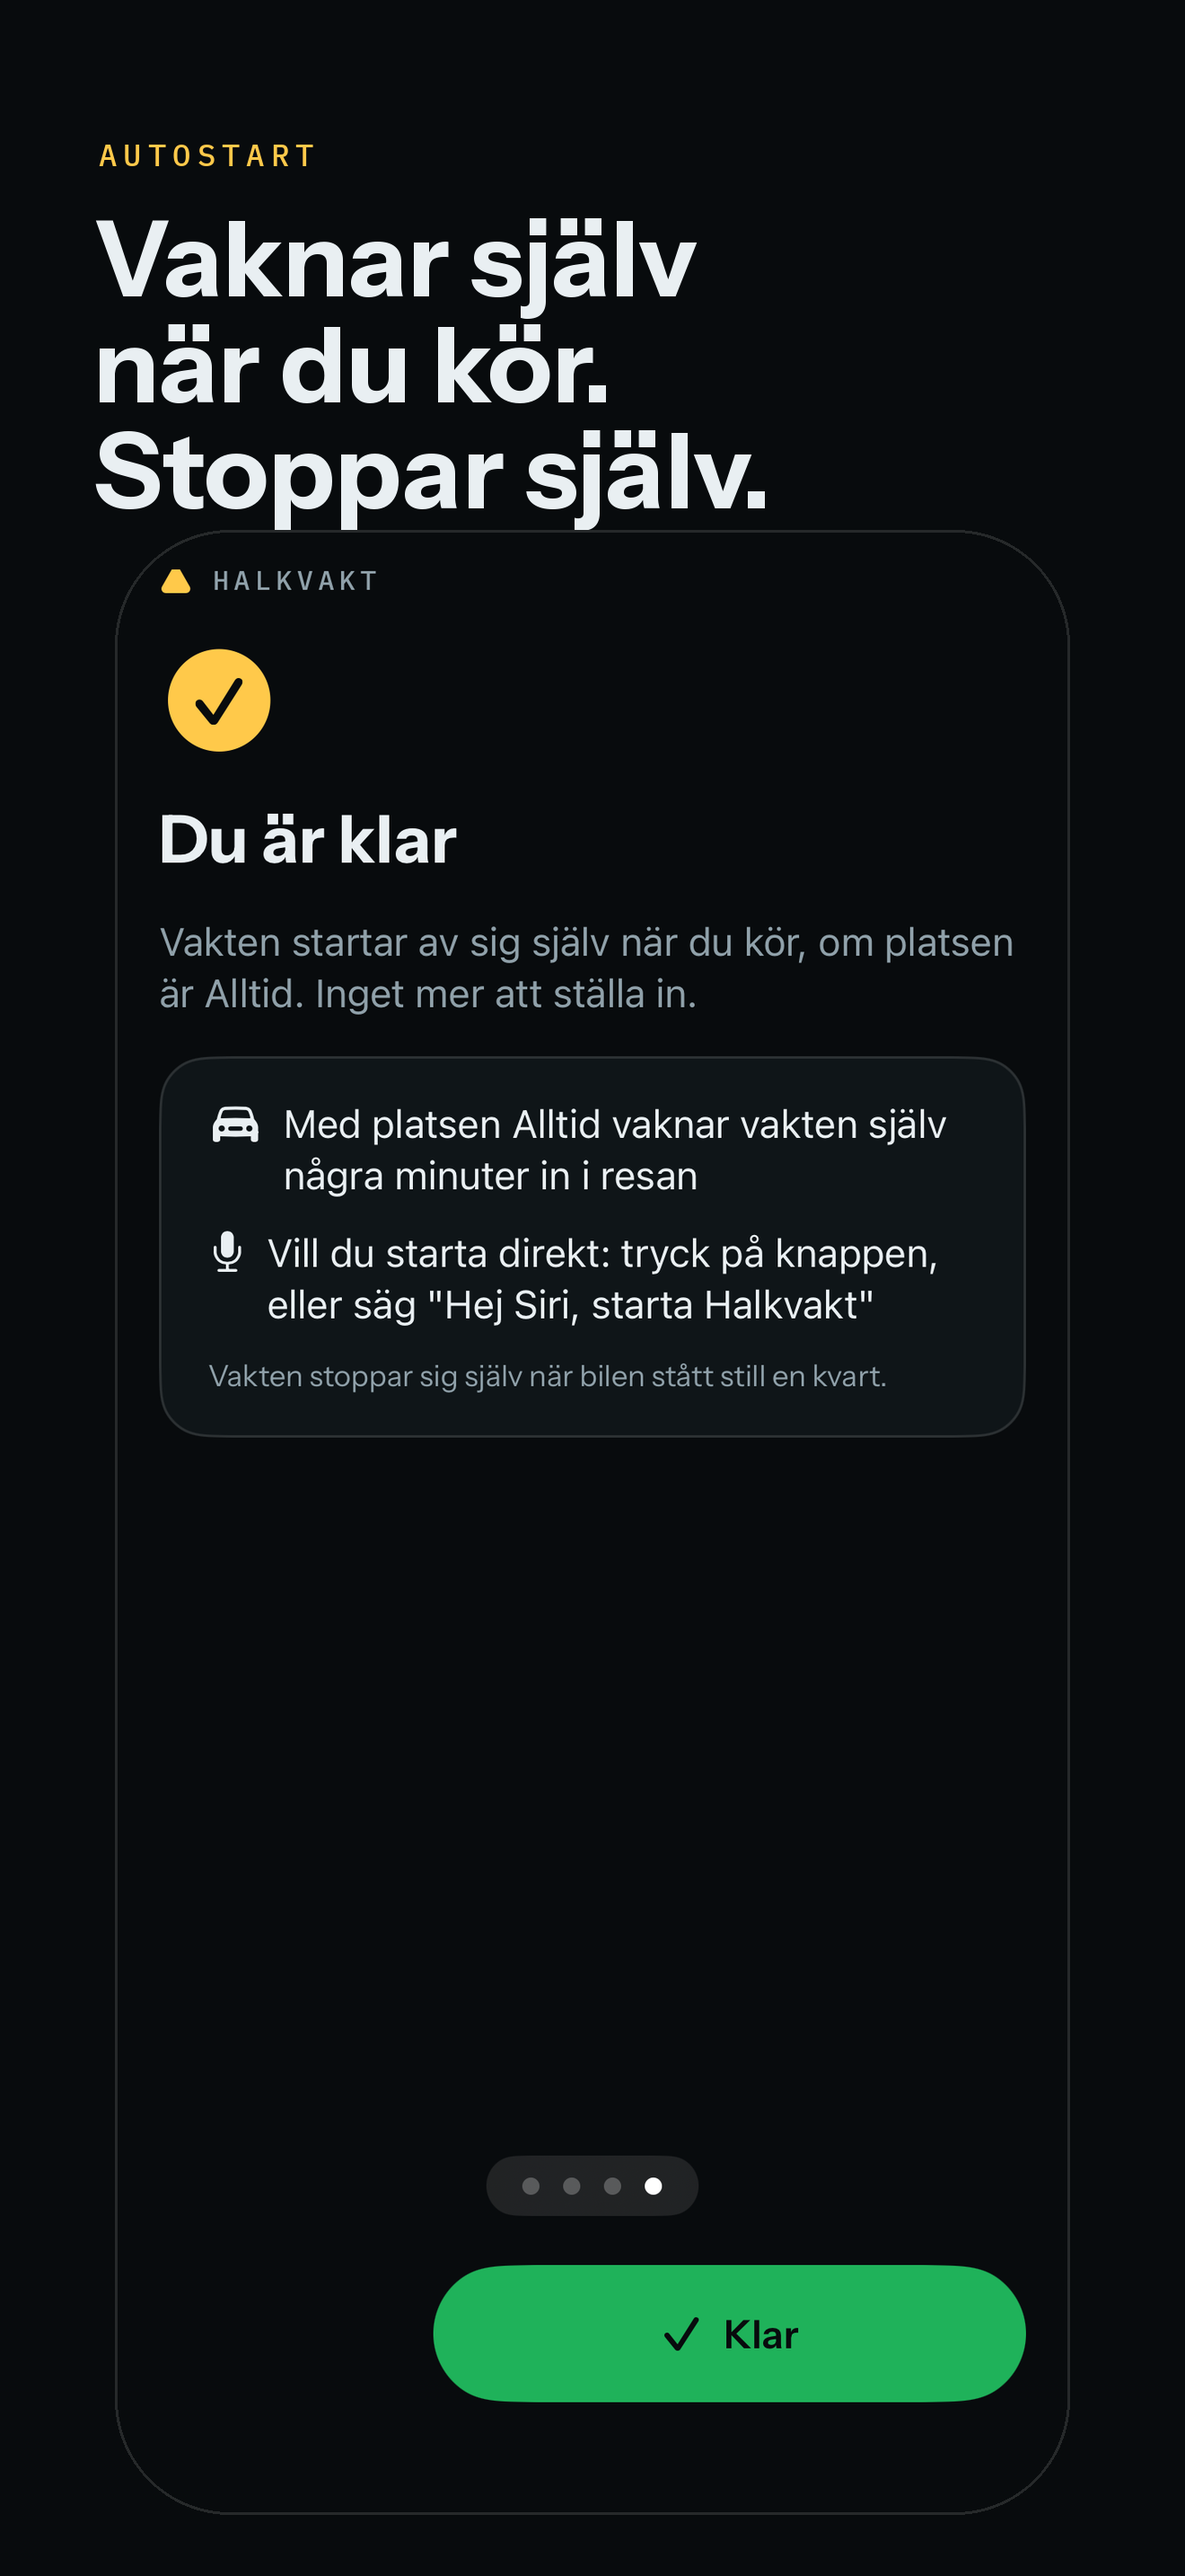
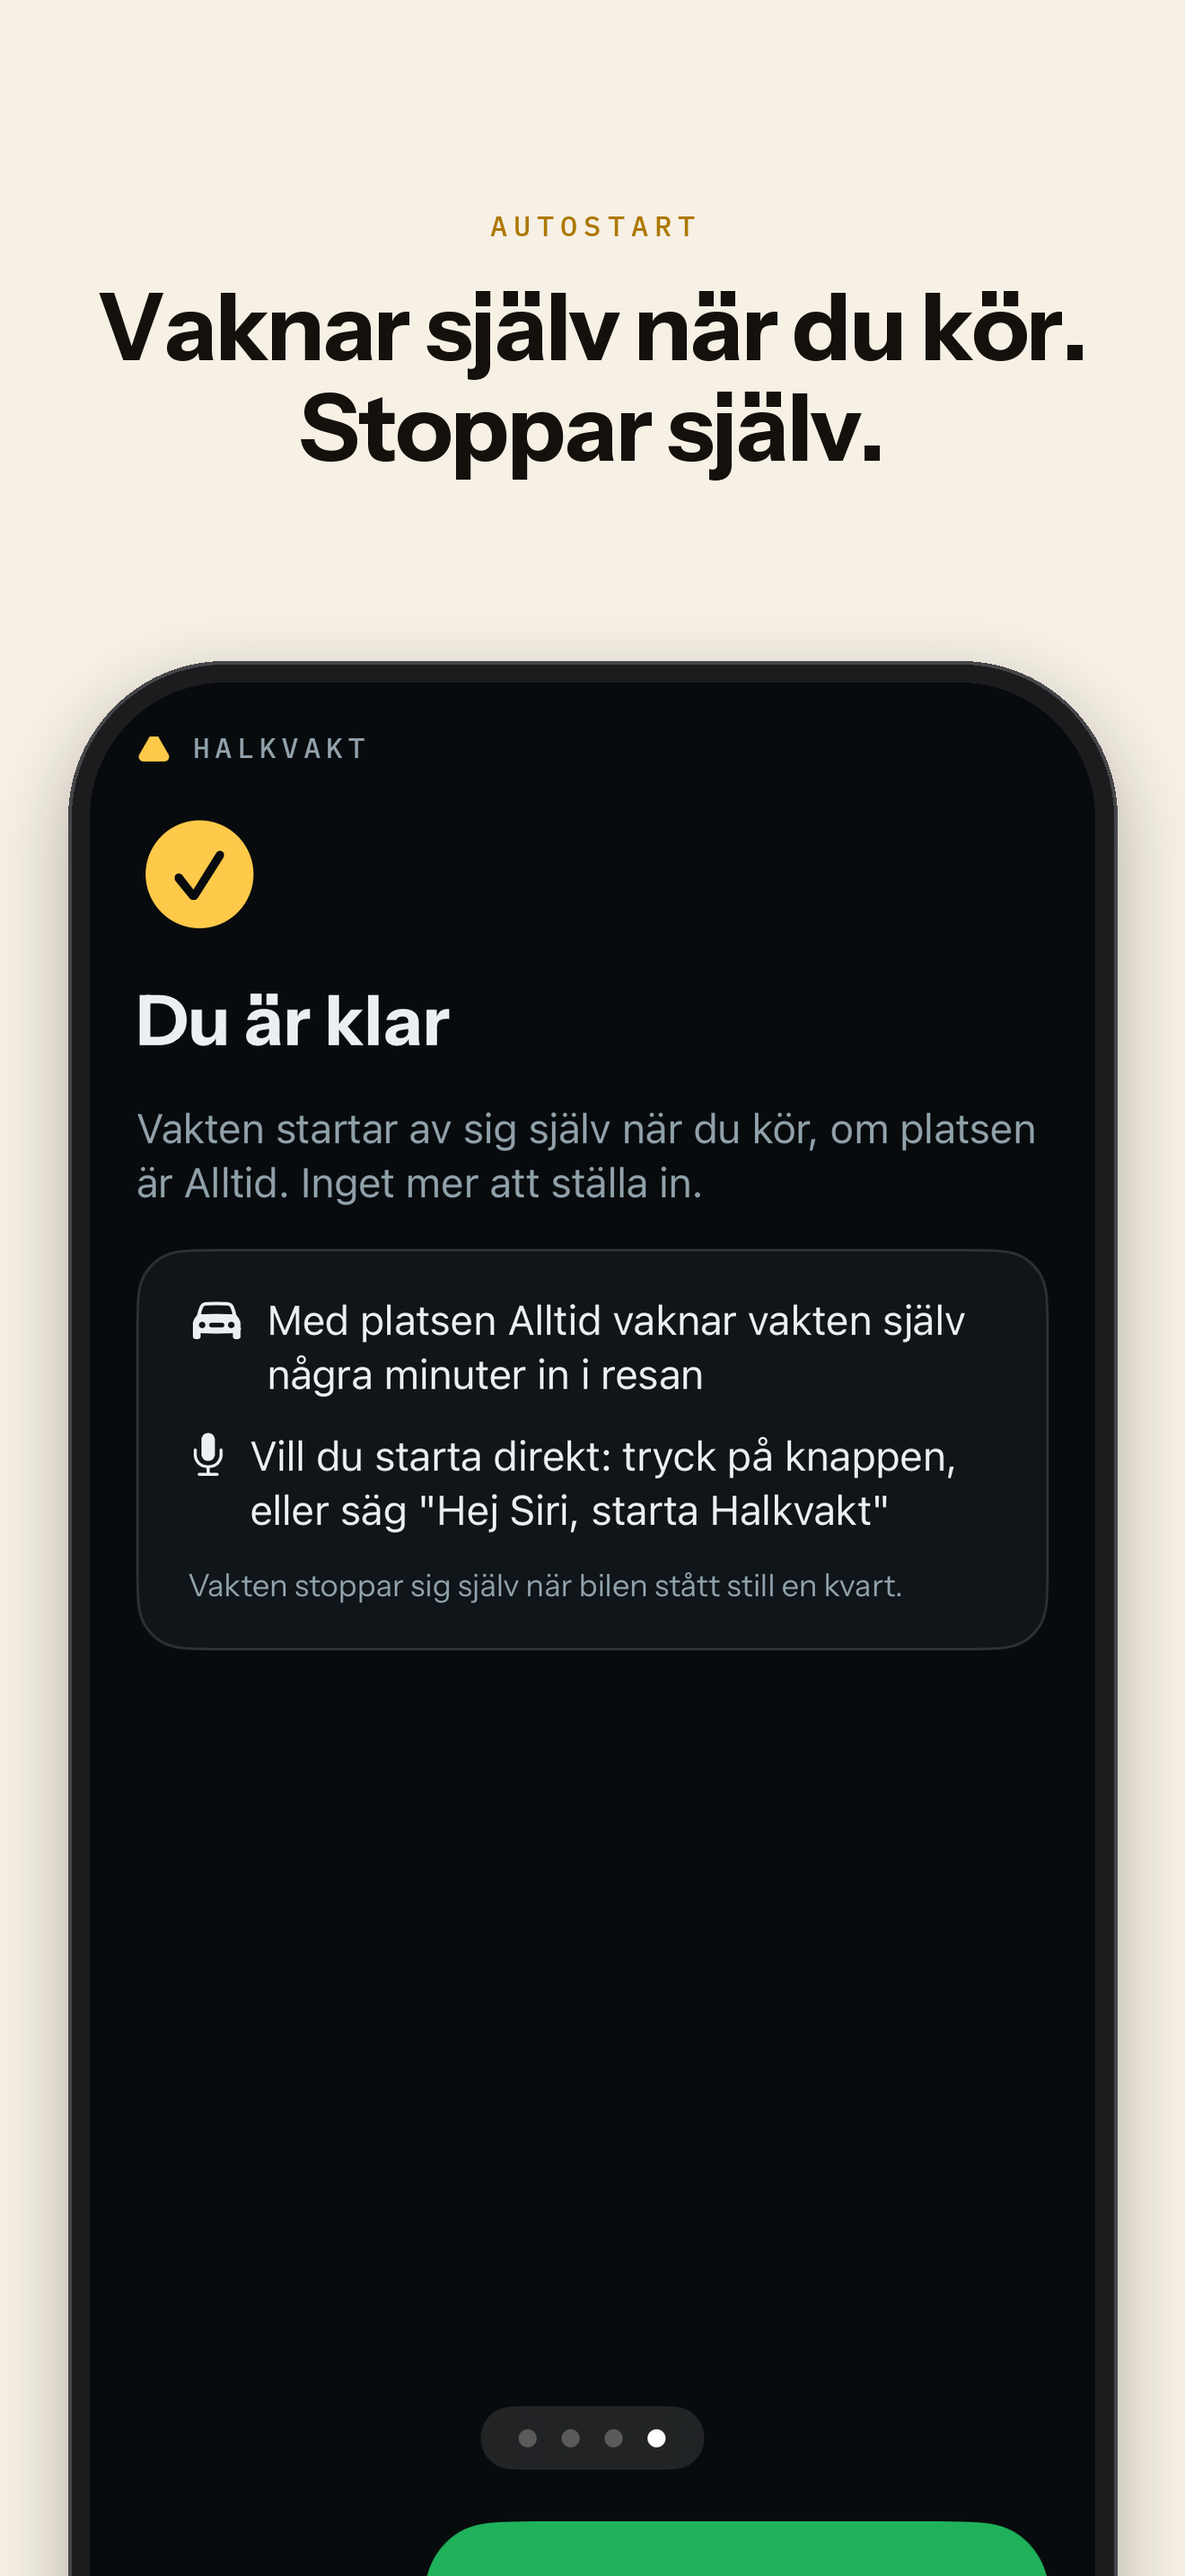
App Store-bilderna i editorial-looken + översikt (kort #280) (#681)
Ljus varm bakgrund, etikett och rubrik centrerade, telefonen i grafitram med Dynamic Island och
mjuk skugga, så stor att den löper ut genom nederkanten. Appens typsnitt och gula behålls.
oversikt.jpg visar alla åtta i butikens ordning. Åtta bilder, 1320×2868.

Claude-Session: https://claude.ai/code/session_01S4GvbDfksL4au58J3afJur

diff --git a/marknadsforing/butik/appstore/rama.py b/marknadsforing/butik/appstore/rama.py
@@ -1,32 +1,38 @@
 #!/usr/bin/env python3
-"""App Store-bilder ur råa iPhone-skärmbilder (kort #280).
+"""App Store-bilder ur råa iPhone-skärmbilder (kort #280) — editorial-looken Axel valde 1/10 (Goldies mall som förebild).
 
-Ramar in 1170×2532-bilder (iPhone 14) i Apples 6,9-tumsmått 1320×2868 med appens egna tokens
-(Theme.swift: bg 080B0D, gul FFC94A, text E9EFF2, dim 8FA0A9) och typsnitt (Instrument Sans,
-IBM Plex Mono). Statusraden och TestFlight-brödsmulan skärs bort; skärmen får iPhone-rundade hörn
-och en tunn kant. Körs: python3 marknadsforing/butik/appstore/rama.py <råbildsmapp>
+1320×2868 (Apples 6,9 tum). Ljus, varm bakgrund; etikett i mono-gult och rubrik i Instrument Sans centrerade överst;
+telefonen i en grafitram med Dynamic Island, så stor att den löper ut genom nederkanten. Statusraden och
+TestFlight-brödsmulan skärs bort ur råbilden (iPhone 14, 1170×2532). Appens tokens: gul FFC94A, mörk 080B0D.
+Körs: python3 marknadsforing/butik/appstore/rama.py <råbildsmapp>
 """
 import sys, os
-from PIL import Image, ImageDraw, ImageFont
+from PIL import Image, ImageDraw, ImageFont, ImageFilter
 
 W, H = 1320, 2868
-BG, YELLOW, TEXT, DIM, STROKE = (8, 11, 13), (255, 201, 74), (233, 239, 242), (143, 160, 169), (255, 255, 255, 31)
+PAPPER = (246, 240, 229)            # varm, ljus bakgrund — gult och grafit lyfter mot den
+BLACK = (20, 17, 12)
+YELLOW_INK = (173, 120, 0)          # appens gula, mörkad så den läses på papper
+GRAFIT, GRAFIT_KANT, SVART = (28, 28, 30), (70, 70, 74), (8, 11, 13)
 FONTS = os.path.join(os.path.dirname(__file__), "../../../ios/HalkvaktApp/Sources/Fonts")
-SCREEN_W = 1064                      # skärmens bredd på duken
-CROP_TOP = 150                       # statusraden + "◀ TestFlight" (råpixlar)
-RADIUS = 128                         # iPhone 14:s hörn (47 pt × 3) skalat
-TOP = 590                            # var skärmen börjar
+
+CROP_TOP = 150                      # statusraden + "◀ TestFlight" i råpixlar
+SCREEN_W = 1120                     # skärmens bredd på duken — telefonen löper ut genom nederkanten
+BAND = 60                           # skärmens egen färg ovanför appens rubrik (där statusraden satt)
+RAM = 24                            # ramens tjocklek
+R_SCREEN, R_RAM = 150, 174          # hörn
+PHONE_TOP = 760
 
 # (råfil, etikett, rubrik). Ordningen = butikens ordning.
 BILDER = [
-    ("99ea591b", "Varningskortet", "Gult i åtta\nsekunder.\nSedan tyst."),
-    ("a479b0f3", "Vakten",        "Ett ord.\nEn knapp.\nSedan kör du."),
-    ("abf993ba", "Körläget",      "Tre kameror\nframför dig.\nRösten säger till."),
+    ("99ea591b", "Varningskortet", "Gult i åtta sekunder.\nSedan tyst."),
+    ("a479b0f3", "Vakten",         "Ett ord. En knapp.\nSedan kör du."),
+    ("abf993ba", "Körläget",       "Tre kameror framför dig.\nRösten säger till."),
     ("9e0f4ba7", "Så fungerar det", "Rösten säger till\ninnan du är där."),
-    ("918d06d0", "Inställningar", "Fem källor.\nSlå av det du\ninte vill höra."),
-    ("55fd6ca3", "Integritet",    "Din position\nlämnar inte\ntelefonen."),
-    ("11b411bb", "Autostart",     "Vaknar själv\nnär du kör.\nStoppar själv."),
-    ("8dcd46d2", "Under körning", "En kort banner\növer kartan.\nInget att trycka."),
+    ("918d06d0", "Inställningar",  "Fem källor. Slå av\ndet du inte vill höra."),
+    ("55fd6ca3", "Integritet",     "Din position lämnar\ninte telefonen."),
+    ("11b411bb", "Autostart",      "Vaknar själv när du kör.\nStoppar själv."),
+    ("8dcd46d2", "Under körning",  "En kort banner över\nkartan. Inget att trycka."),
 ]
 
 def sans(size, bold=True):
@@ -38,38 +44,56 @@ def sans(size, bold=True):
 def mono(size):
     return ImageFont.truetype(os.path.join(FONTS, "IBMPlexMono-Medium.ttf"), size)
 
+def centrerad(d, y, text, font, fill, sparr=0):
+    w = sum(d.textlength(ch, font=font) + sparr for ch in text) - sparr
+    x = (W - w) / 2
+    for ch in text:
+        d.text((x, y), ch, font=font, fill=fill); x += d.textlength(ch, font=font) + sparr
+
 def rama(ra, etikett, rubrik, ut):
-    duk = Image.new("RGB", (W, H), BG)
+    duk = Image.new("RGB", (W, H), PAPPER)
     d = ImageDraw.Draw(duk)
-    # Etikett i mono, spärrad, gul — som SectionHeader i appen.
-    x, y = 110, 150
-    for ch in etikett.upper():
-        d.text((x, y), ch, font=mono(34), fill=YELLOW); x += d.textlength(ch, font=mono(34)) + 7
-    # Rubriken: Instrument Sans bold, stor, tät radhöjd, negativ spärrning som "Redo."
-    f = sans(118)
-    yy = 215
+    centrerad(d, 230, etikett.upper(), mono(32), YELLOW_INK, sparr=7)
+    f = sans(104); yy = 300
     for rad in rubrik.split("\n"):
-        d.text((104, yy), rad, font=f, fill=TEXT); yy += 118
-    # Skärmen: skär bort statusraden, skala, runda hörnen, tunn kant.
-    im = Image.open(ra).convert("RGB")
-    im = im.crop((0, CROP_TOP, im.width, im.height))
+        centrerad(d, yy, rad, f, BLACK, sparr=-2); yy += 112
+
+    # Skärmen
+    im = Image.open(ra).convert("RGB").crop((0, CROP_TOP, 1170, 2532))
     sh = round(im.height * SCREEN_W / im.width)
     im = im.resize((SCREEN_W, sh), Image.LANCZOS)
-    # Luft ovanför rubriken HALKVAKT, i stället för den bortskurna statusraden.
-    luft = Image.new("RGB", (SCREEN_W, sh + 44), im.getpixel((8, 8))); luft.paste(im, (0, 44)); im = luft   # skärmens egen färg (gul på kortet)
+    band = Image.new("RGB", (SCREEN_W, sh + BAND), im.getpixel((8, 8))); band.paste(im, (0, BAND)); im = band
+    sx = (W - SCREEN_W) // 2; sy = PHONE_TOP
+
+    # Skugga under ramen, mjuk
+    skugga = Image.new("RGBA", (W, H), (0, 0, 0, 0))
+    ImageDraw.Draw(skugga).rounded_rectangle((sx - RAM, sy - RAM + 30, sx + SCREEN_W + RAM, sy + im.height + RAM + 30), radius=R_RAM, fill=(0, 0, 0, 70))
+    skugga = skugga.filter(ImageFilter.GaussianBlur(40))
+    duk = Image.alpha_composite(duk.convert("RGBA"), skugga)
+
+    # Ramen: grafit med en ljusare kant (metall), sedan skärmen med rundade hörn, sedan Dynamic Island
+    lager = Image.new("RGBA", (W, H), (0, 0, 0, 0)); ld = ImageDraw.Draw(lager)
+    ld.rounded_rectangle((sx - RAM, sy - RAM, sx + SCREEN_W + RAM, sy + im.height + RAM), radius=R_RAM, fill=GRAFIT, outline=GRAFIT_KANT, width=4)
+    duk = Image.alpha_composite(duk, lager)
     mask = Image.new("L", im.size, 0)
-    ImageDraw.Draw(mask).rounded_rectangle((0, 0, im.width - 1, im.height - 1), radius=RADIUS, fill=255)
-    sx = (W - SCREEN_W) // 2
-    duk.paste(im, (sx, TOP), mask)
-    kant = Image.new("RGBA", duk.size, (0, 0, 0, 0))
-    ImageDraw.Draw(kant).rounded_rectangle((sx, TOP, sx + im.width - 1, TOP + im.height - 1), radius=RADIUS, outline=STROKE, width=3)
-    duk = Image.alpha_composite(duk.convert("RGBA"), kant).convert("RGB")
-    duk.save(ut, "PNG", optimize=True)
-    print(ut, duk.size, "skärm", im.size, "slutar vid", TOP + im.height)
+    ImageDraw.Draw(mask).rounded_rectangle((0, 0, im.width - 1, im.height - 1), radius=R_SCREEN, fill=255)
+    duk.paste(im, (sx, sy), mask)
+    ImageDraw.Draw(duk).rounded_rectangle((W // 2 - 120, sy + 22, W // 2 + 120, sy + 92), radius=35, fill=SVART)
+    duk.convert("RGB").save(ut, "PNG", optimize=True)
+    print(os.path.basename(ut))
 
 if __name__ == "__main__":
     src = sys.argv[1]
     out = os.path.dirname(os.path.abspath(__file__))
+    for f in os.listdir(out):
+        if f[:2].isdigit() and f.endswith(".png"): os.remove(os.path.join(out, f))
     for i, (ra, etikett, rubrik) in enumerate(BILDER, 1):
-        rama(os.path.join(src, f"{ra}-image.png"), etikett, rubrik,
-             os.path.join(out, f"{i:02d}-{etikett.lower().replace(' ', '-').replace('å','a').replace('ä','a').replace('ö','o')}.png"))
+        namn = etikett.lower().replace(" ", "-").replace("å", "a").replace("ä", "a").replace("ö", "o")
+        rama(os.path.join(src, f"{ra}-image.png"), etikett, rubrik, os.path.join(out, f"{i:02d}-{namn}.png"))
+    # Översikten: alla i en rad, för att se serien som i butiken.
+    bilder = [Image.open(os.path.join(out, f)) for f in sorted(os.listdir(out)) if f[:2].isdigit() and f.endswith(".png")]
+    tw = 330; th = round(H * tw / W)
+    rad = Image.new("RGB", (tw * len(bilder) + 20 * (len(bilder) + 1), th + 40), (225, 218, 205))
+    for i, b in enumerate(bilder):
+        rad.paste(b.resize((tw, th), Image.LANCZOS), (20 + i * (tw + 20), 20))
+    rad.save(os.path.join(out, "oversikt.jpg"), "JPEG", quality=88); print("oversikt.jpg")
